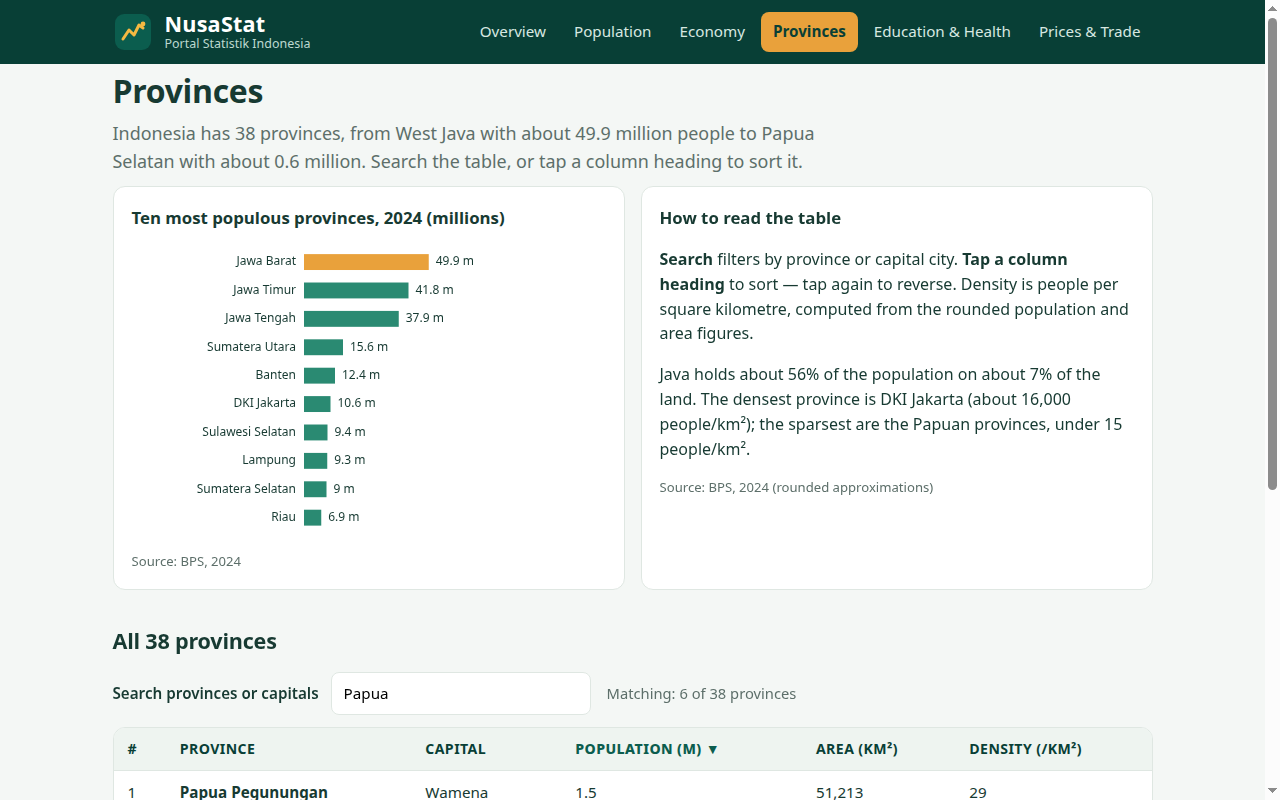
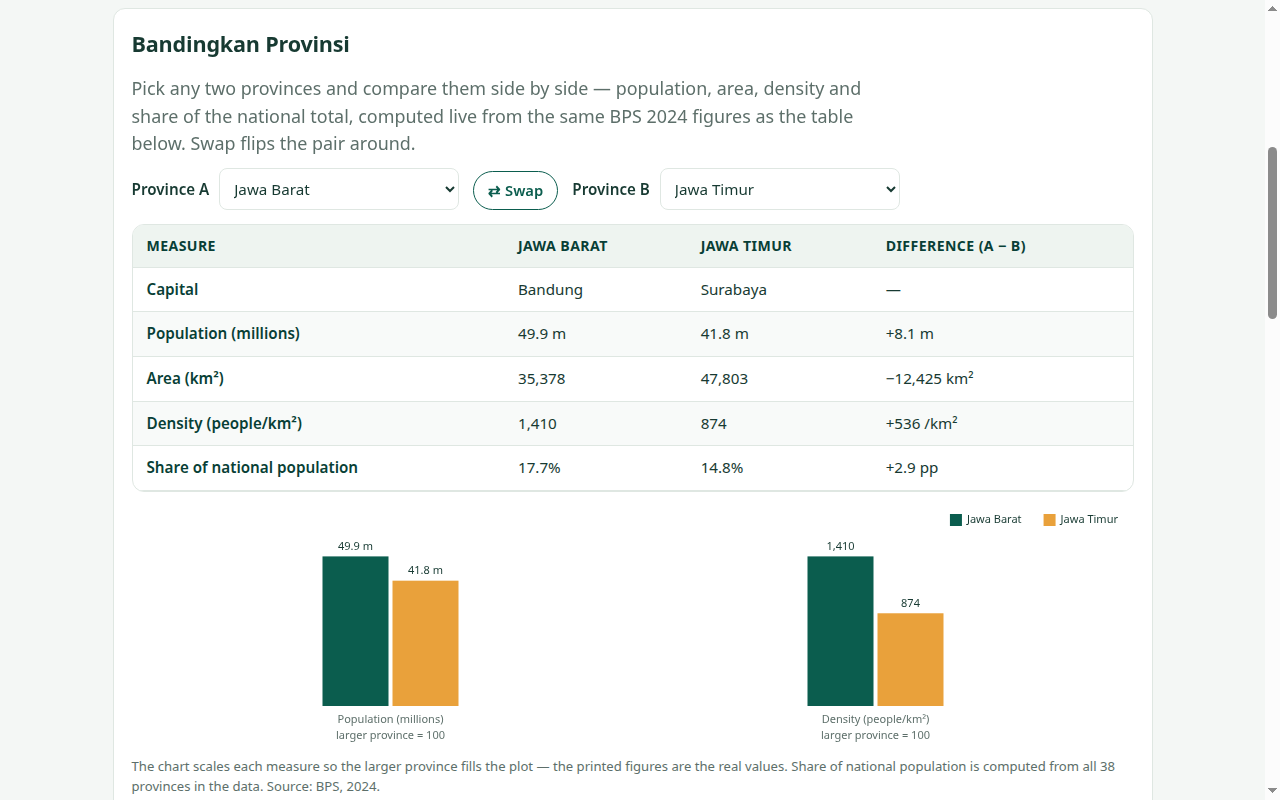
NusaStat: add province comparison panel and hand-in verification
Compare any two provinces side by side (population, area, density,
national share, signed difference) with a paired bar chart; main.ts
now verifies dossier.json and prints a hand-in summary.

diff --git a/app/views.js b/app/views.js
@@ -207,6 +207,90 @@
         + '<td>' + p.pop.toFixed(1) + '</td><td>' + p.area.toLocaleString('en-US') + '</td><td>' + density(p).toLocaleString('en-US') + '</td></tr>';
     }).join('');
   }
+  // ------------------------------------------- compare provinces (new panel)
+  // Which two provinces the compare panel shows; Jawa Barat vs Jawa Timur
+  // are the two most populous, so they are the natural default pair.
+  var cmpAName = 'Jawa Barat';
+  var cmpBName = 'Jawa Timur';
+
+  // Look a province up by name; fall back to the first province so a stale
+  // saved name never leaves the panel empty.
+  function findProvince(name) {
+    var hit = null;
+    D.provinces.forEach(function (p) { if (p.name === name) hit = p; });
+    return hit || D.provinces[0];
+  }
+
+  // National population implied by the 38 province figures (the rounded
+  // provincial numbers add up to about 283.5 million).
+  function nationalPopTotal() {
+    var total = 0;
+    D.provinces.forEach(function (p) { total += p.pop; });
+    return total;
+  }
+
+  function shareOfNational(p) {
+    return (p.pop / nationalPopTotal()) * 100;
+  }
+
+  // The <option> list for a compare dropdown, with one province pre-selected.
+  function cmpOptions(selectedName) {
+    return D.provinces.map(function (p) {
+      return '<option value="' + esc(p.name) + '"' + (p.name === selectedName ? ' selected' : '') + '>' + esc(p.name) + '</option>';
+    }).join('');
+  }
+
+  // One row of the side-by-side table: label, value for A, value for B, and
+  // the gap between them (A minus B) so the reader sees who is ahead at once.
+  function cmpRow(label, aVal, bVal, gap) {
+    return '<tr><th scope="row">' + esc(label) + '</th><td>' + aVal + '</td><td>' + bVal + '</td><td>' + gap + '</td></tr>';
+  }
+
+  function fmtSigned(v, decimals, unit) {
+    var sign = v > 0 ? '+' : v < 0 ? '−' : '';
+    return sign + Math.abs(v).toFixed(decimals) + unit;
+  }
+
+  // Same as fmtSigned but with thousands separators, for whole-number gaps
+  // in the thousands — an area difference reads badly as 82471 instead of
+  // 82,471, while the table's own values all use separators.
+  function fmtSignedGrouped(v, unit) {
+    var sign = v > 0 ? '+' : v < 0 ? '−' : '';
+    return sign + Math.abs(v).toLocaleString('en-US') + unit;
+  }
+
+  // Builds the comparison table for two provinces, all figures computed live
+  // from the provinces data — nothing here is hard-coded.
+  function cmpTableBody(a, b) {
+    var shareA = shareOfNational(a);
+    var shareB = shareOfNational(b);
+    return cmpRow('Capital', esc(a.capital), esc(b.capital), '—')
+      + cmpRow('Population (millions)', a.pop.toFixed(1) + ' m', b.pop.toFixed(1) + ' m', fmtSigned(a.pop - b.pop, 1, ' m'))
+      + cmpRow('Area (km²)', a.area.toLocaleString('en-US'), b.area.toLocaleString('en-US'), fmtSignedGrouped(a.area - b.area, ' km²'))
+      + cmpRow('Density (people/km²)', density(a).toLocaleString('en-US'), density(b).toLocaleString('en-US'), fmtSignedGrouped(density(a) - density(b), ' /km²'))
+      + cmpRow('Share of national population', shareA.toFixed(1) + '%', shareB.toFixed(1) + '%', fmtSigned(shareA - shareB, 1, ' pp'));
+  }
+
+  // Re-paints the compare panel: table body, column headings, and the chart.
+  // Called from mount, from the controls, and from draw() on window resize.
+  function drawCompare() {
+    var a = findProvince(cmpAName);
+    var b = findProvince(cmpBName);
+    var body = document.getElementById('cmp-body');
+    if (body) body.innerHTML = cmpTableBody(a, b);
+    var headA = document.getElementById('cmp-head-a');
+    var headB = document.getElementById('cmp-head-b');
+    if (headA) headA.textContent = a.name;
+    if (headB) headB.textContent = b.name;
+    var cv = document.getElementById('cmp-chart');
+    if (cv) {
+      C.drawPairCompare(cv, [
+        { label: 'Population (millions)', a: a.pop, b: b.pop, fmt: function (v) { return v.toFixed(1) + ' m'; } },
+        { label: 'Density (people/km²)', a: density(a), b: density(b), fmt: function (v) { return Math.round(v).toLocaleString('en-US'); } },
+      ], [a.name, b.name]);
+    }
+  }
+
   function provinces() {
     var top10 = D.provinces.slice().sort(function (a, b) { return b.pop - a.pop; }).slice(0, 10)
       .map(function (p) { return { label: p.name, value: p.pop }; });
@@ -219,6 +303,16 @@
       + '<p><strong>Search</strong> filters by province or capital city. <strong>Tap a column heading</strong> to sort — tap again to reverse. Density is people per square kilometre, computed from the rounded population and area figures.</p>'
       + '<p>Java holds about 56% of the population on about 7% of the land. The densest province is DKI Jakarta (about 16,000 people/km²); the sparsest are the Papuan provinces, under 15 people/km².</p>'
       + sourceNote('BPS, 2024 (rounded approximations)') + '</section></section>'
+      + '<section class="compare-panel"><h2>Bandingkan Provinsi</h2>'
+      + '<p class="lede">Pick any two provinces and compare them side by side — population, area, density and share of the national total, computed live from the same BPS 2024 figures as the table below. Swap flips the pair around.</p>'
+      + '<div class="compare-controls">'
+      + '<label class="compare-pick">Province A <select id="cmp-a" aria-label="First province to compare">' + cmpOptions(cmpAName) + '</select></label>'
+      + '<button class="tab-btn" id="cmp-swap" type="button">⇄ Swap</button>'
+      + '<label class="compare-pick">Province B <select id="cmp-b" aria-label="Second province to compare">' + cmpOptions(cmpBName) + '</select></label>'
+      + '</div>'
+      + '<div class="table-scroll"><table class="data-table compare-table"><thead><tr><th>Measure</th><th id="cmp-head-a">—</th><th id="cmp-head-b">—</th><th>Difference (A − B)</th></tr></thead><tbody id="cmp-body"></tbody></table></div>'
+      + '<canvas id="cmp-chart" class="chart" style="height:240px" role="img" aria-label="Population and density comparison chart"></canvas>'
+      + '<p class="source-note">The chart scales each measure so the larger province fills the plot — the printed figures are the real values. Share of national population is computed from all 38 provinces in the data. Source: BPS, 2024.</p></section>'
       + '<section><h2>All 38 provinces</h2>'
       + '<div class="table-tools"><label class="search-box">Search provinces or capitals <input id="prov-search" type="search" placeholder="e.g. Jawa, Medan, Papua" value="' + esc(provQuery) + '"></label>'
       + '<span class="result-count" id="prov-count"></span></div>'
@@ -257,10 +351,25 @@
           });
         });
         refresh();
+        var selA = document.getElementById('cmp-a');
+        var selB = document.getElementById('cmp-b');
+        var swapBtn = document.getElementById('cmp-swap');
+        if (selA) selA.addEventListener('change', function () { cmpAName = selA.value; drawCompare(); });
+        if (selB) selB.addEventListener('change', function () { cmpBName = selB.value; drawCompare(); });
+        if (swapBtn) swapBtn.addEventListener('click', function () {
+          var tmp = cmpAName;
+          cmpAName = cmpBName;
+          cmpBName = tmp;
+          selA.value = cmpAName;
+          selB.value = cmpBName;
+          drawCompare();
+        });
+        drawCompare();
       },
       draw: function () {
         var cv = document.getElementById('prov-top10');
         if (cv) C.drawHbars(cv, top10, { suffix: ' m' });
+        drawCompare();
       },
     };
   }

diff --git a/app/charts.js b/app/charts.js
@@ -255,10 +255,66 @@
     });
   }
 
+  // Paired comparison bars: two values per measure, one bar per province.
+  // Each measure is scaled so the larger of the pair fills the plot height,
+  // because the measures sit on different scales (millions of people vs
+  // people per km²) — the real figures are printed above each bar, so the
+  // reader always sees the true values, not just the shape.
+  function drawPairCompare(canvas, metrics, names, opts) {
+    opts = opts || {};
+    var s = setupCanvas(canvas);
+    var ctx = s.ctx;
+    var padL = 16, padR = 16, padT = 24, padB = 40;
+    var x0 = padL, y0 = padT, x1 = s.w - padR, y1 = s.h - padB;
+    var colors = [TEAL, AMBER];
+    var n = metrics.length;
+    var slot = (x1 - x0) / n;
+    var groupW = Math.min(140, slot * 0.58);
+    var barW = groupW / 2;
+    ctx.font = '11px system-ui, sans-serif';
+    ctx.textAlign = 'center';
+    ctx.textBaseline = 'top';
+    for (var i = 0; i < n; i++) {
+      var m = metrics[i];
+      var peak = Math.max(m.a, m.b) || 1;
+      var gx = x0 + slot * (i + 0.5) - groupW / 2;
+      [m.a, m.b].forEach(function (v, j) {
+        // Bars stop at 85% of the plot height: the tallest bar's value label
+        // sits above it, and the legend row above the plot stays clear.
+        var h = (v / peak) * (y1 - y0) * 0.85;
+        var bx = gx + j * barW;
+        ctx.fillStyle = colors[j % colors.length];
+        ctx.beginPath();
+        ctx.fillRect(bx + 2, y1 - h, Math.max(barW - 4, 1), Math.max(h, 1));
+        ctx.fillStyle = INK;
+        ctx.fillText(m.fmt(v), bx + barW / 2, y1 - h - 15);
+      });
+      ctx.fillStyle = MUTED;
+      ctx.fillText(m.label, x0 + slot * (i + 0.5), y1 + 8);
+      ctx.fillText('larger province = 100', x0 + slot * (i + 0.5), y1 + 24);
+    }
+    // Legend, drawn above the plot area, right-aligned like drawGroupedBars.
+    ctx.textAlign = 'left';
+    ctx.textBaseline = 'middle';
+    var legendW = 0;
+    names.forEach(function (nm) {
+      legendW += 17 + ctx.measureText(nm).width + 22;
+    });
+    var lx = x1 - (legendW - 22);
+    names.forEach(function (nm, k) {
+      ctx.fillStyle = colors[k % colors.length];
+      ctx.fillRect(lx, y0 - 16, 12, 12);
+      ctx.fillStyle = INK;
+      ctx.fillText(nm, lx + 17, y0 - 10);
+      lx += 17 + ctx.measureText(nm).width + 22;
+    });
+  }
+
   window.NUSACharts = {
     drawBarChart: drawBarChart,
     drawLineChart: drawLineChart,
     drawHbars: drawHbars,
     drawGroupedBars: drawGroupedBars,
+    drawPairCompare: drawPairCompare,
   };
 })();

diff --git a/main.ts b/main.ts
@@ -1,13 +1,16 @@
 // NusaStat hand-in program (Node 22, standard library only).
-// Copies the site (app/) and its screenshots (screenshots/) from beside this file
-// into the output directory and writes /output/dossier.json with the vendored
-// make.fun dossier library. The library file itself is the kit's copy, unchanged:
-// the scorer rebuilds the dossier with its own copy and compares byte for byte.
+//
+// What it does, in plain terms: it gathers the finished site — the app/
+// folder with every page, chart and number, plus the screenshots/ folder —
+// copies both into the output directory, and writes dossier.json there.
+// The dossier is built by the vendored make.fun library (vendor/), which
+// the scorer runs again on its own copy and compares byte for byte, so
+// this program never edits the library file itself.
 //
 // Outside the grader, MAKEFUN_OUTPUT_DIR stands in for /output:
 //   mkdir -p out && MAKEFUN_OUTPUT_DIR=out node main.ts
 
-import { cpSync, existsSync, mkdirSync, writeFileSync } from 'node:fs';
+import { cpSync, existsSync, mkdirSync, readFileSync, readdirSync, writeFileSync } from 'node:fs';
 import { join } from 'node:path';
 import { fileURLToPath } from 'node:url';
 import { buildDossier } from './vendor/makefun-frontend.ts';
@@ -33,3 +36,18 @@ writeFileSync(
     app_max_bytes: 16777216,
   }),
 );
+
+// Sanity check before finishing: the hand-in is useless if the dossier did
+// not actually land, so confirm it exists and is not empty, then print a
+// one-line summary of what was copied for the log.
+{
+  const dossierPath = join(out, 'dossier.json');
+  const dossier = readFileSync(dossierPath);
+  if (dossier.length === 0) throw new Error('dossier.json was written empty');
+  const shots = existsSync(join(out, 'screenshots'))
+    ? readdirSync(join(out, 'screenshots')).length
+    : 0;
+  console.log(
+    `NusaStat hand-in ready: app/ + ${shots} screenshot(s) + dossier.json (${dossier.length} bytes) in ${out}`,
+  );
+}

diff --git a/app/style.css b/app/style.css
@@ -161,6 +161,27 @@ main { padding: 26px 0 10px; }
   #price-chart { min-height: 300px; }
 }
 
+/* Compare provinces panel */
+.compare-panel {
+  background: var(--card); border: 1px solid var(--line); border-radius: var(--radius);
+  padding: 18px; margin-top: 16px;
+}
+.compare-panel h2 { margin-top: 0; }
+.compare-controls {
+  display: flex; align-items: flex-end; gap: 14px; flex-wrap: wrap; margin: 4px 0 14px;
+}
+.compare-pick { font-size: 0.95rem; font-weight: 600; }
+.compare-pick select {
+  font: inherit; font-weight: 400; padding: 9px 10px; margin-left: 6px;
+  border: 1px solid var(--line); border-radius: 8px; background: #fff; color: var(--ink);
+  max-width: 100%;
+}
+.compare-pick select:focus { outline: 2px solid var(--teal-light); border-color: var(--teal); }
+.compare-panel .table-scroll { margin-bottom: 14px; }
+.compare-table th[scope="row"] { font-weight: 600; color: var(--teal-dark); }
+.compare-table td { font-variant-numeric: tabular-nums; }
+#cmp-chart { min-height: 240px; }
+
 /* Footer */
 .site-footer { border-top: 1px solid var(--line); margin-top: 40px; padding: 22px 0 30px; color: var(--muted); font-size: 0.9rem; }
 .foot-meta { margin-top: 6px; }
@@ -181,4 +202,7 @@ main { padding: 26px 0 10px; }
   h1 { font-size: 1.6rem; }
   .kpi-value { font-size: 1.4rem; }
   .search-box input { width: 100%; margin: 6px 0 0; }
+  .compare-controls { flex-direction: column; align-items: stretch; gap: 10px; }
+  .compare-pick select { width: 100%; margin: 6px 0 0; }
+  #cmp-swap { align-self: flex-start; }
 }

diff --git a/README.md b/README.md
@@ -11,7 +11,7 @@ An independent, fully offline national statistics portal for Indonesia. Pure sta
 - **Overview** — key indicators (population 283.5 m, GDP Rp 22,139 tn, growth 5.03%, inflation 1.57%, unemployment 4.91%, poverty 8.57%, life expectancy 74.2 yrs, HDI 75.02), GDP-growth and population charts, latest releases.
 - **Population & demographics** — switchable chart (total population 2015–2024 / age structure / urban vs rural), demographic facts, population-by-year table.
 - **Economy** — switchable chart (GDP growth / inflation / unemployment), GDP sector mix, economy facts, annual indicators table.
-- **Provinces** — top-10 population chart plus a table of all 38 provinces (population, area, density) with live search and sortable columns.
+- **Provinces** — top-10 population chart plus a table of all 38 provinces (population, area, density) with live search and sortable columns, and a "Bandingkan Provinsi" panel: pick any two provinces (default Jawa Barat vs Jawa Timur), swap them, and compare population, area, density and share of the national total side by side, with a paired bar chart.
 - **Education & health** — tabbed panels: literacy, schooling, universities; life expectancy, infant mortality, stunting, hospitals.
 - **Prices & trade** — switchable chart (inflation by expenditure group / exports by commodity / imports by commodity / staple food prices), exports-vs-imports grouped-bar chart, inflation-by-group-over-time chart with a group picker, exports/imports-by-region chart, monthly 2024 inflation chart, trade-balance table 2019–2024, staple-food price table, and a sortable, searchable table of the top 12 trading partners.
 
@@ -31,4 +31,4 @@ Every figure is a rounded approximation compiled from Badan Pusat Statistik (BPS
 
 ## Screenshots
 
-In `screenshots/`: the overview dashboard (desktop), the prices & trade page (desktop), the provinces page (desktop), and the overview on a phone (390 × 844).
+In `screenshots/`: the overview dashboard (desktop), the prices & trade page (desktop), the provinces page (desktop, showing the Bandingkan Provinsi panel), and the overview on a phone (390 × 844).
